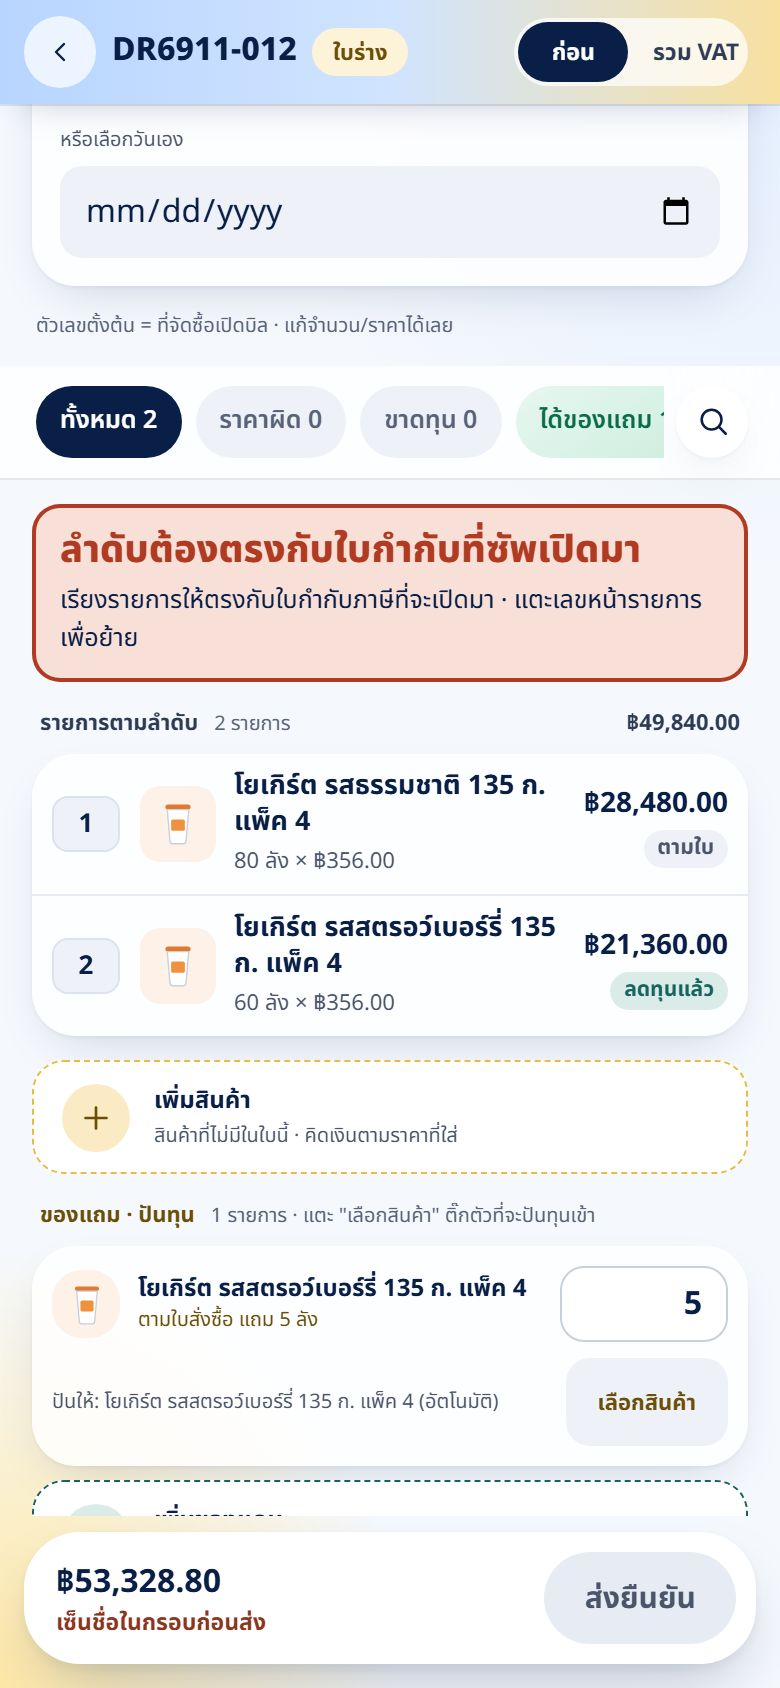
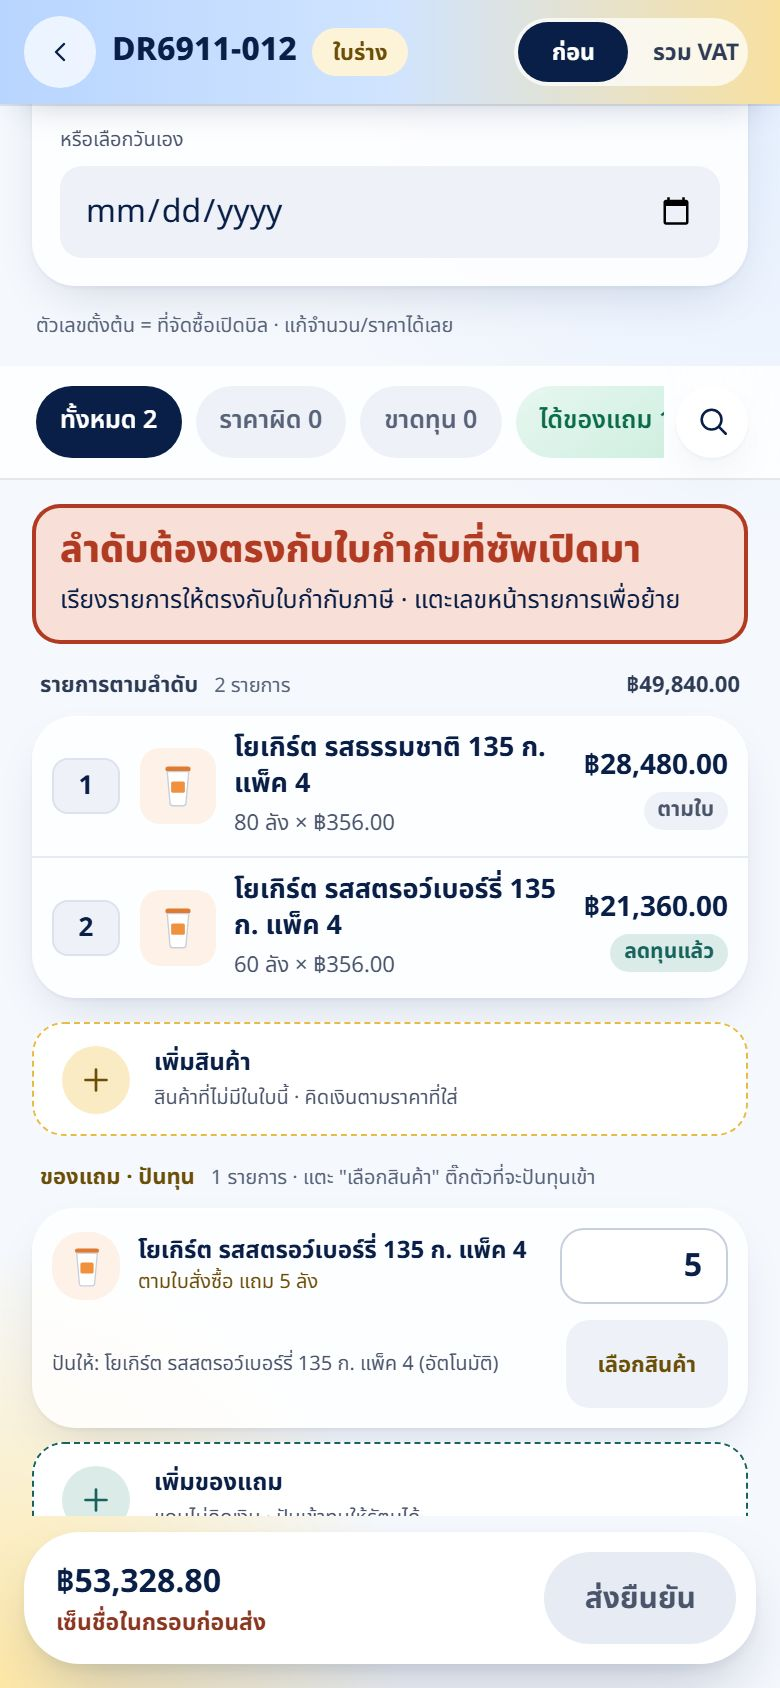
SupplyLink guide v1.12.1: ข้อความป้ายลำดับ

Changed region(s): [[0.0308, 0.3389, 0.9846, 0.8934], [0.0923, 0.4621, 0.1231, 0.4929]]

diff --git a/supplylink-guide.html b/supplylink-guide.html
@@ -3,7 +3,7 @@
 <head>
 <meta charset="utf-8">
 <meta name="viewport" content="width=device-width,initial-scale=1,viewport-fit=cover">
-<title>ฝึกใช้ SupplyLink v1.12.0</title>
+<title>ฝึกใช้ SupplyLink v1.12.1</title>
 <link rel="preconnect" href="https://fonts.googleapis.com">
 <link href="https://fonts.googleapis.com/css2?family=Noto+Sans+Thai:wght@400;500;600;700&display=swap" rel="stylesheet">
 <style>
@@ -138,7 +138,7 @@ button{font:inherit;cursor:pointer}
 
 <script>
 (function () {
-  var VER = 'v1.12.0', APP = 'https://liff.line.me/2011693023-xbdsN1K7';
+  var VER = 'v1.12.1', APP = 'https://liff.line.me/2011693023-xbdsN1K7';
   var IMG = {"h0":"supplylink-guide/h0.jpg","hinc":"supplylink-guide/hinc.jpg","hdef":"supplylink-guide/hdef.jpg","hpo":"supplylink-guide/hpo.jpg","s2":"supplylink-guide/s2.jpg","s4":"supplylink-guide/s4.jpg","s5":"supplylink-guide/s5.jpg","s6":"supplylink-guide/s6.jpg","s7":"supplylink-guide/s7.jpg","s9":"supplylink-guide/s9.jpg","s10":"supplylink-guide/s10.jpg","s11":"supplylink-guide/s11.jpg","z1":"supplylink-guide/z1.jpg","zm":"supplylink-guide/zm.jpg","zt":"supplylink-guide/zt.jpg","zs":"supplylink-guide/zs.jpg","zi":"supplylink-guide/zi.jpg","q1":"supplylink-guide/q1.jpg","q2":"supplylink-guide/q2.jpg","q3":"supplylink-guide/q3.jpg","q4":"supplylink-guide/q4.jpg","q5":"supplylink-guide/q5.jpg","q6":"supplylink-guide/q6.jpg","q7":"supplylink-guide/q7.jpg","q8":"supplylink-guide/q8.jpg","x1":"supplylink-guide/x1.jpg","x2":"supplylink-guide/x2.jpg","x3":"supplylink-guide/x3.jpg","x4":"supplylink-guide/x4.jpg","x5":"supplylink-guide/x5.jpg","x6":"supplylink-guide/x6.jpg","x7":"supplylink-guide/x7.jpg","a2":"supplylink-guide/a2.jpg","a3":"supplylink-guide/a3.jpg","a5":"supplylink-guide/a5.jpg","d2":"supplylink-guide/d2.jpg","a4":"supplylink-guide/a4.jpg","d3":"supplylink-guide/d3.jpg","d4":"supplylink-guide/d4.jpg","p1":"supplylink-guide/p1.jpg","p1b":"supplylink-guide/p1b.jpg","b2":"supplylink-guide/b2.jpg","b3":"supplylink-guide/b3.jpg","p5":"supplylink-guide/p5.jpg","c2":"supplylink-guide/c2.jpg","c3":"supplylink-guide/c3.jpg","k1":"supplylink-guide/k1.jpg","k2":"supplylink-guide/k2.jpg","k3":"supplylink-guide/k3.jpg","k4":"supplylink-guide/k4.jpg","k5":"supplylink-guide/k5.jpg","k6":"supplylink-guide/k6.jpg","k7":"supplylink-guide/k7.jpg","k9":"supplylink-guide/k9.jpg","k10":"supplylink-guide/k10.jpg","k11":"supplylink-guide/k11.jpg","n1":"supplylink-guide/n1.jpg","n2":"supplylink-guide/n2.jpg","n3":"supplylink-guide/n3.jpg","n4":"supplylink-guide/n4.jpg","n5":"supplylink-guide/n5.jpg","n6":"supplylink-guide/n6.jpg","n7":"supplylink-guide/n7.jpg","n8":"supplylink-guide/n8.jpg","n9":"supplylink-guide/n9.jpg","g1":"supplylink-guide/g1.jpg","g2":"supplylink-guide/g2.jpg","g3":"supplylink-guide/g3.jpg","g4":"supplylink-guide/g4.jpg","m1":"supplylink-guide/m1.jpg","m2":"supplylink-guide/m2.jpg","m3":"supplylink-guide/m3.jpg","m4":"supplylink-guide/m4.jpg","m5":"supplylink-guide/m5.jpg","f1":"supplylink-guide/f1.jpg","f2":"supplylink-guide/f2.jpg","f3":"supplylink-guide/f3.jpg","f4":"supplylink-guide/f4.jpg","dws":"supplylink-guide/dws.jpg","dwh":"supplylink-guide/dwh.jpg","stk":"supplylink-guide/stk.jpg","stk2":"supplylink-guide/stk2.jpg","stkh":"supplylink-guide/stkh.jpg","cbi":"supplylink-guide/cbi.jpg","cb1":"supplylink-guide/cb1.jpg","cb2":"supplylink-guide/cb2.jpg","cb3":"supplylink-guide/cb3.jpg","cbp":"supplylink-guide/cbp.jpg","ot0":"supplylink-guide/ot0.jpg","aseq":"supplylink-guide/aseq.jpg","inv1":"supplylink-guide/inv1.jpg","ot1":"supplylink-guide/ot1.jpg","ot2":"supplylink-guide/ot2.jpg","ot3":"supplylink-guide/ot3.jpg"};                                       /* แทนด้วยรูปตอน build */
   var HAND = '<svg class="hand" viewBox="0 0 48 48" aria-hidden="true"><path d="M19 6c2 0 3.5 1.6 3.5 3.6V22l1-.1V18c0-2 1.6-3.4 3.4-3.4S30.3 16 30.3 18v4.4l1-.1v-2.6c0-1.9 1.5-3.3 3.3-3.3s3.3 1.5 3.3 3.3v3.6l.8-.1c1.8 0 3.3 1.5 3.3 3.3V34c0 6.6-5.4 12-12 12h-3.4c-3.8 0-7.4-1.8-9.6-4.9L8.5 30.6c-1-1.4-.7-3.4.7-4.4 1.4-1 3.3-.8 4.4.5l2 2.4V9.6C15.6 7.6 17.1 6 19 6z" fill="#fff" stroke="#0A1F47" stroke-width="2.4" stroke-linejoin="round"/></svg>';
   var FLOWCARD = function () {                              /* ส่งแล้วเกิดอะไรขึ้น: ซัพตอบ → จัดซื้อยืนยัน → เปิด PO จริง */
@@ -174,7 +174,7 @@ button{font:inherit;cursor:pointer}
       { html:function () { return LINECARD('ใบร่างสั่งซื้อ รอคุณตรวจ', 'ใบร่าง DR6911-012', [['บริษัท', 'บริษัท ตัวอย่าง จำกัด'], ['ส่งที่', 'คลังสุพรรณบุรี'], ['วันส่งที่ขอ', 'ให้คุณเสนอ'], ['สินค้า', '2 รายการ'], ['ช่วยตรวจ', 'จำนวนที่ส่งได้ · ราคา · ของแถม ก่อนเปิด PO']], ['ยอดตามแผน · ก่อน VAT', '฿49,840.00'], 'เปิดตรวจในแอป'); }, el:'lbtn',
         h:'ได้การ์ด LINE', d:'ฝ่ายจัดซื้อส่งใบร่างมาให้ตรวจ แตะ "เปิดตรวจในแอป"' },
       { img:'a2', r:[16, 374, 358, 62], h:'นี่คือใบร่าง', d:'แตะรายการสินค้าเพื่อแก้จำนวน ราคา หรือของแถม' },
-      { img:'aseq', r:[26, 398, 34, 28], h:'เรียงลำดับให้ตรงใบกำกับ', d:'ลำดับต้องตรงกับใบกำกับภาษีที่จะเปิดมา (จัดซื้อเอาไปตรวจชน) · แตะเลขหน้ารายการแล้วพิมพ์ลำดับใหม่', fx:'type', fxt:'2' },
+      { img:'aseq', r:[26, 398, 34, 28], h:'เรียงลำดับให้ตรงใบกำกับ', d:'ลำดับต้องตรงกับใบกำกับภาษี (จัดซื้อเอาไปตรวจชน) · แตะเลขหน้ารายการแล้วพิมพ์ลำดับใหม่', fx:'type', fxt:'2' },
       { img:'a3', r:[16, 385, 316, 40], h:'ดูรายการที่ต้องแก้ก่อน', d:'"ราคาผิด" = ราคาไม่ตรงทุนล่าสุด · "ขาดทุน" = รัตนขายแล้วขาดทุน ต้องแก้ให้เรียบร้อยก่อนส่ง' },
       { img:'d2', r:[16, 227, 358, 110], h:'แก้ราคา โปร ของแถม', d:'แจ้งราคาที่ถูก ใส่ส่วนลด/ของแถมตามโปรที่ตกลง หรือใส่ราคาแนะนำขาย แตะช่องนี้', fx:'type' },
       { img:'a5', r:[12, 766, 366, 66], h:'ยังแก้ไม่ครบ = ยังส่งไม่ได้', d:'แถบล่างบอกว่าเหลือกี่รายการ กดส่งแล้วแอปพาไปจุดที่ต้องแก้ให้เอง' },
